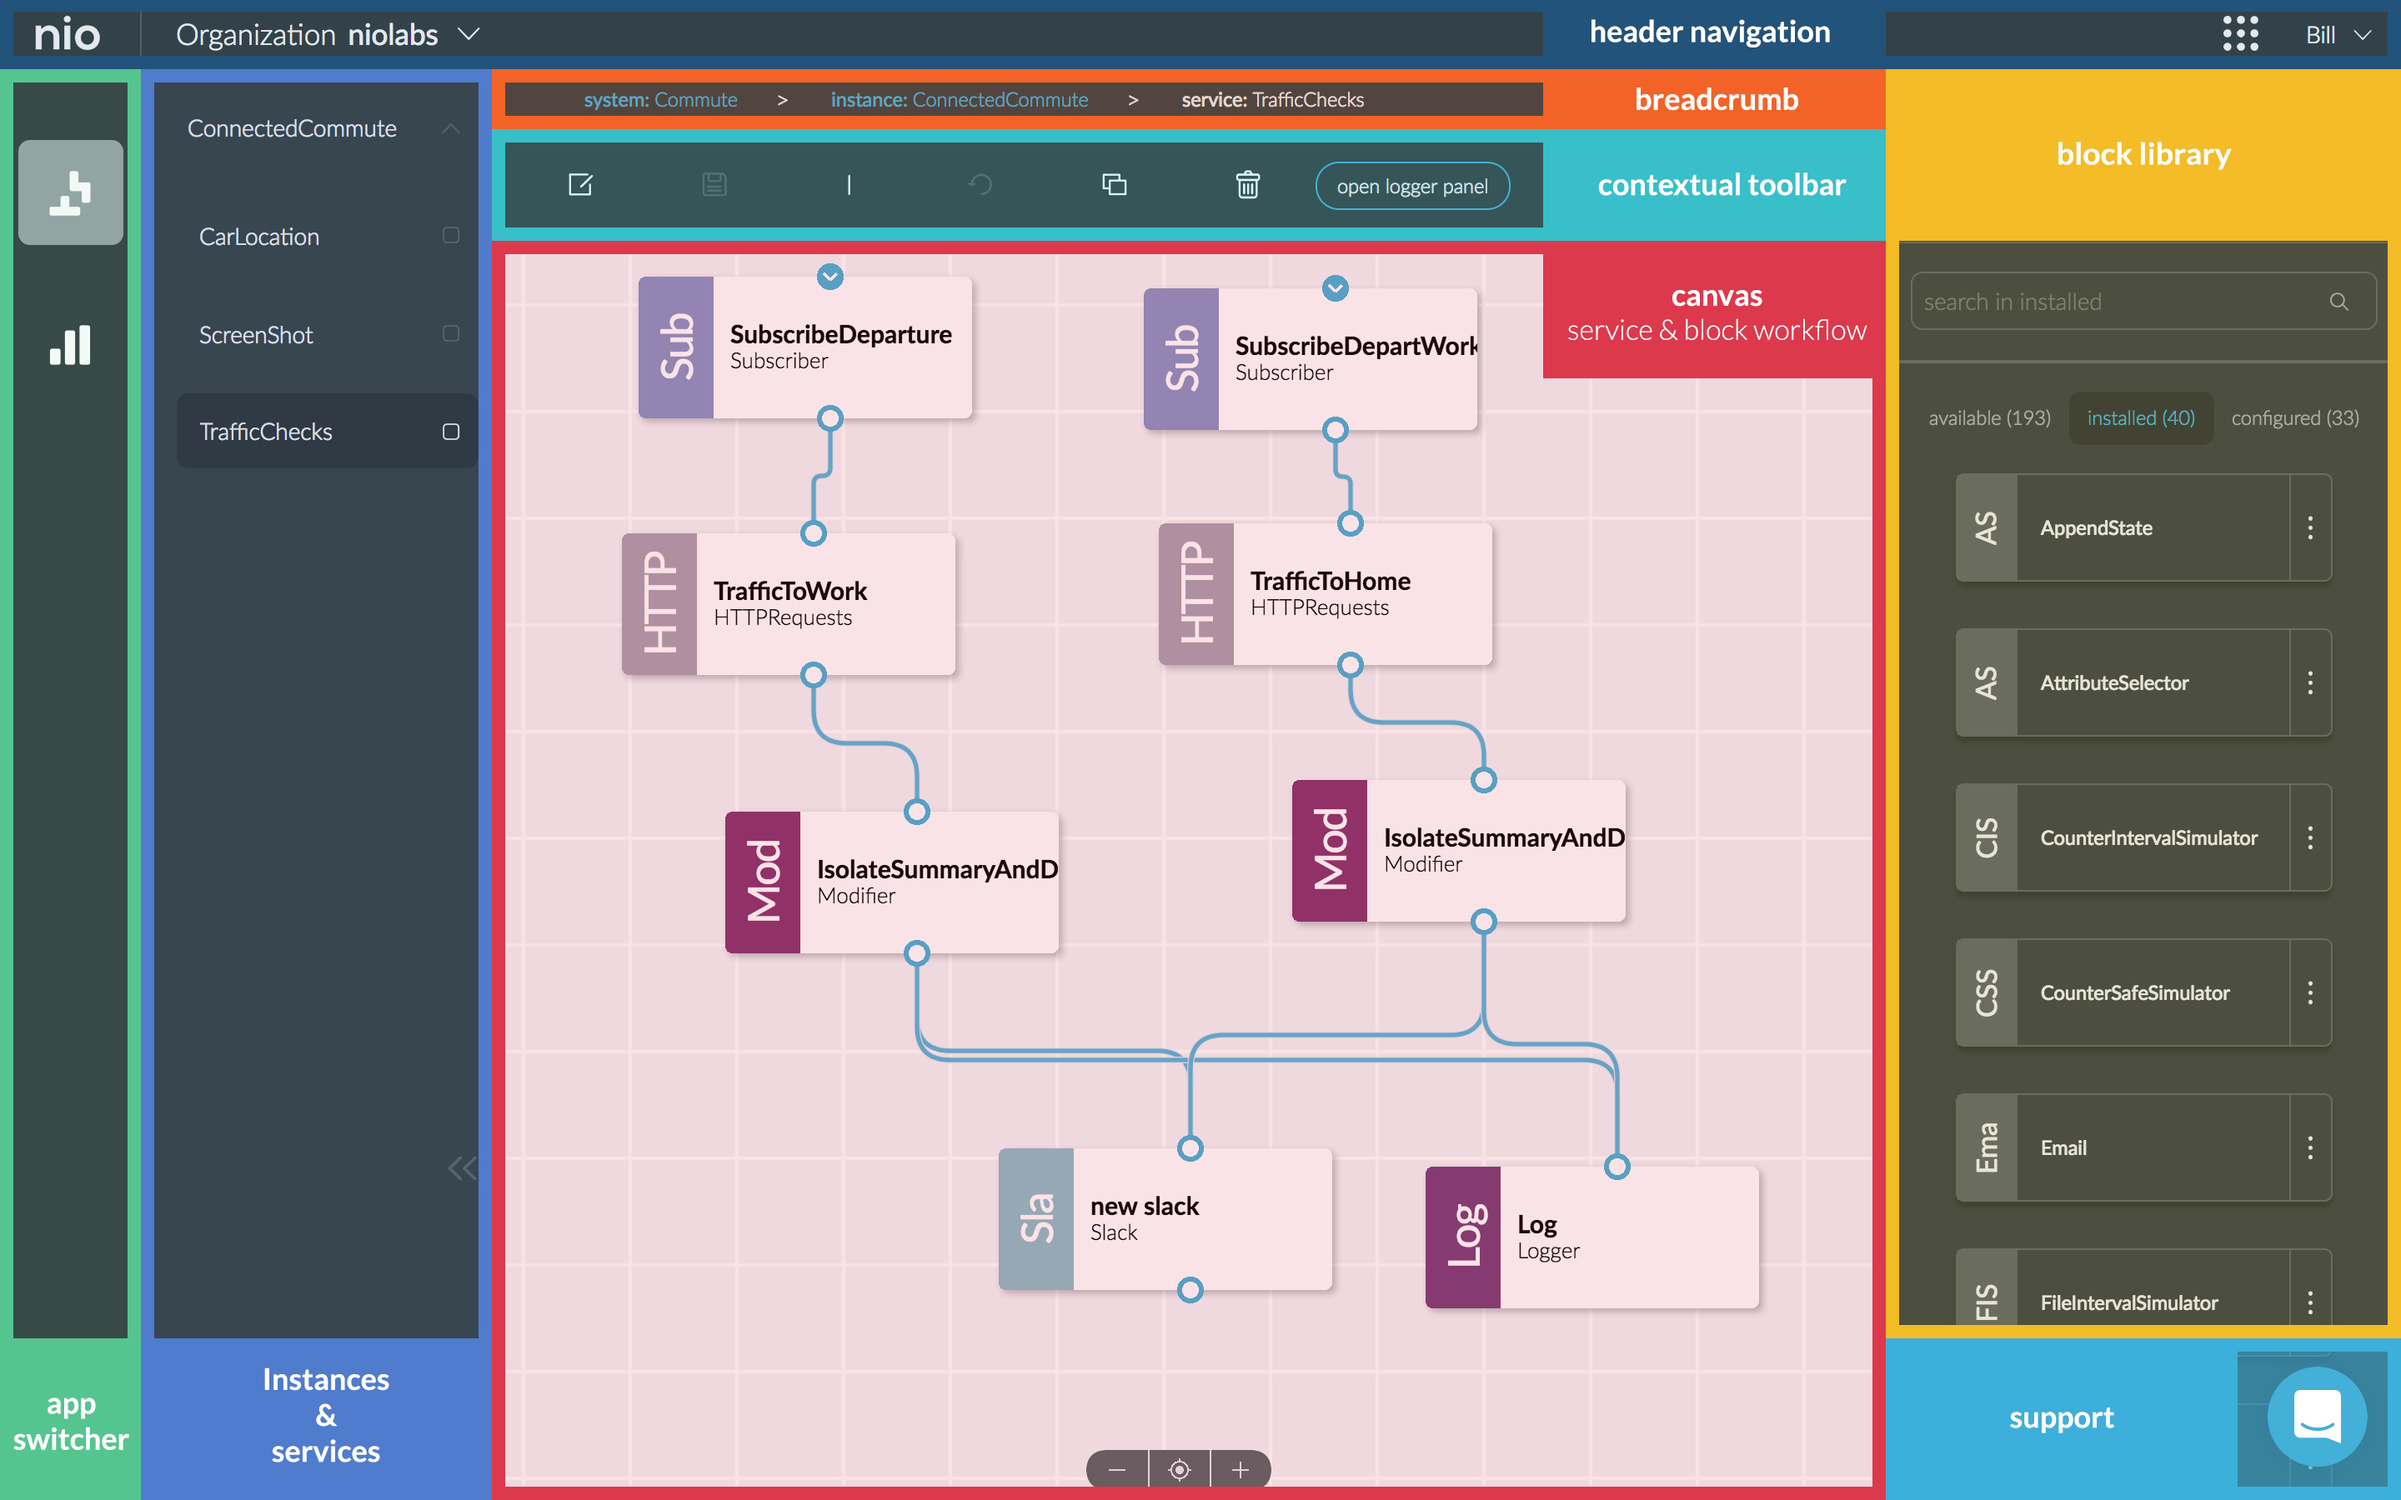
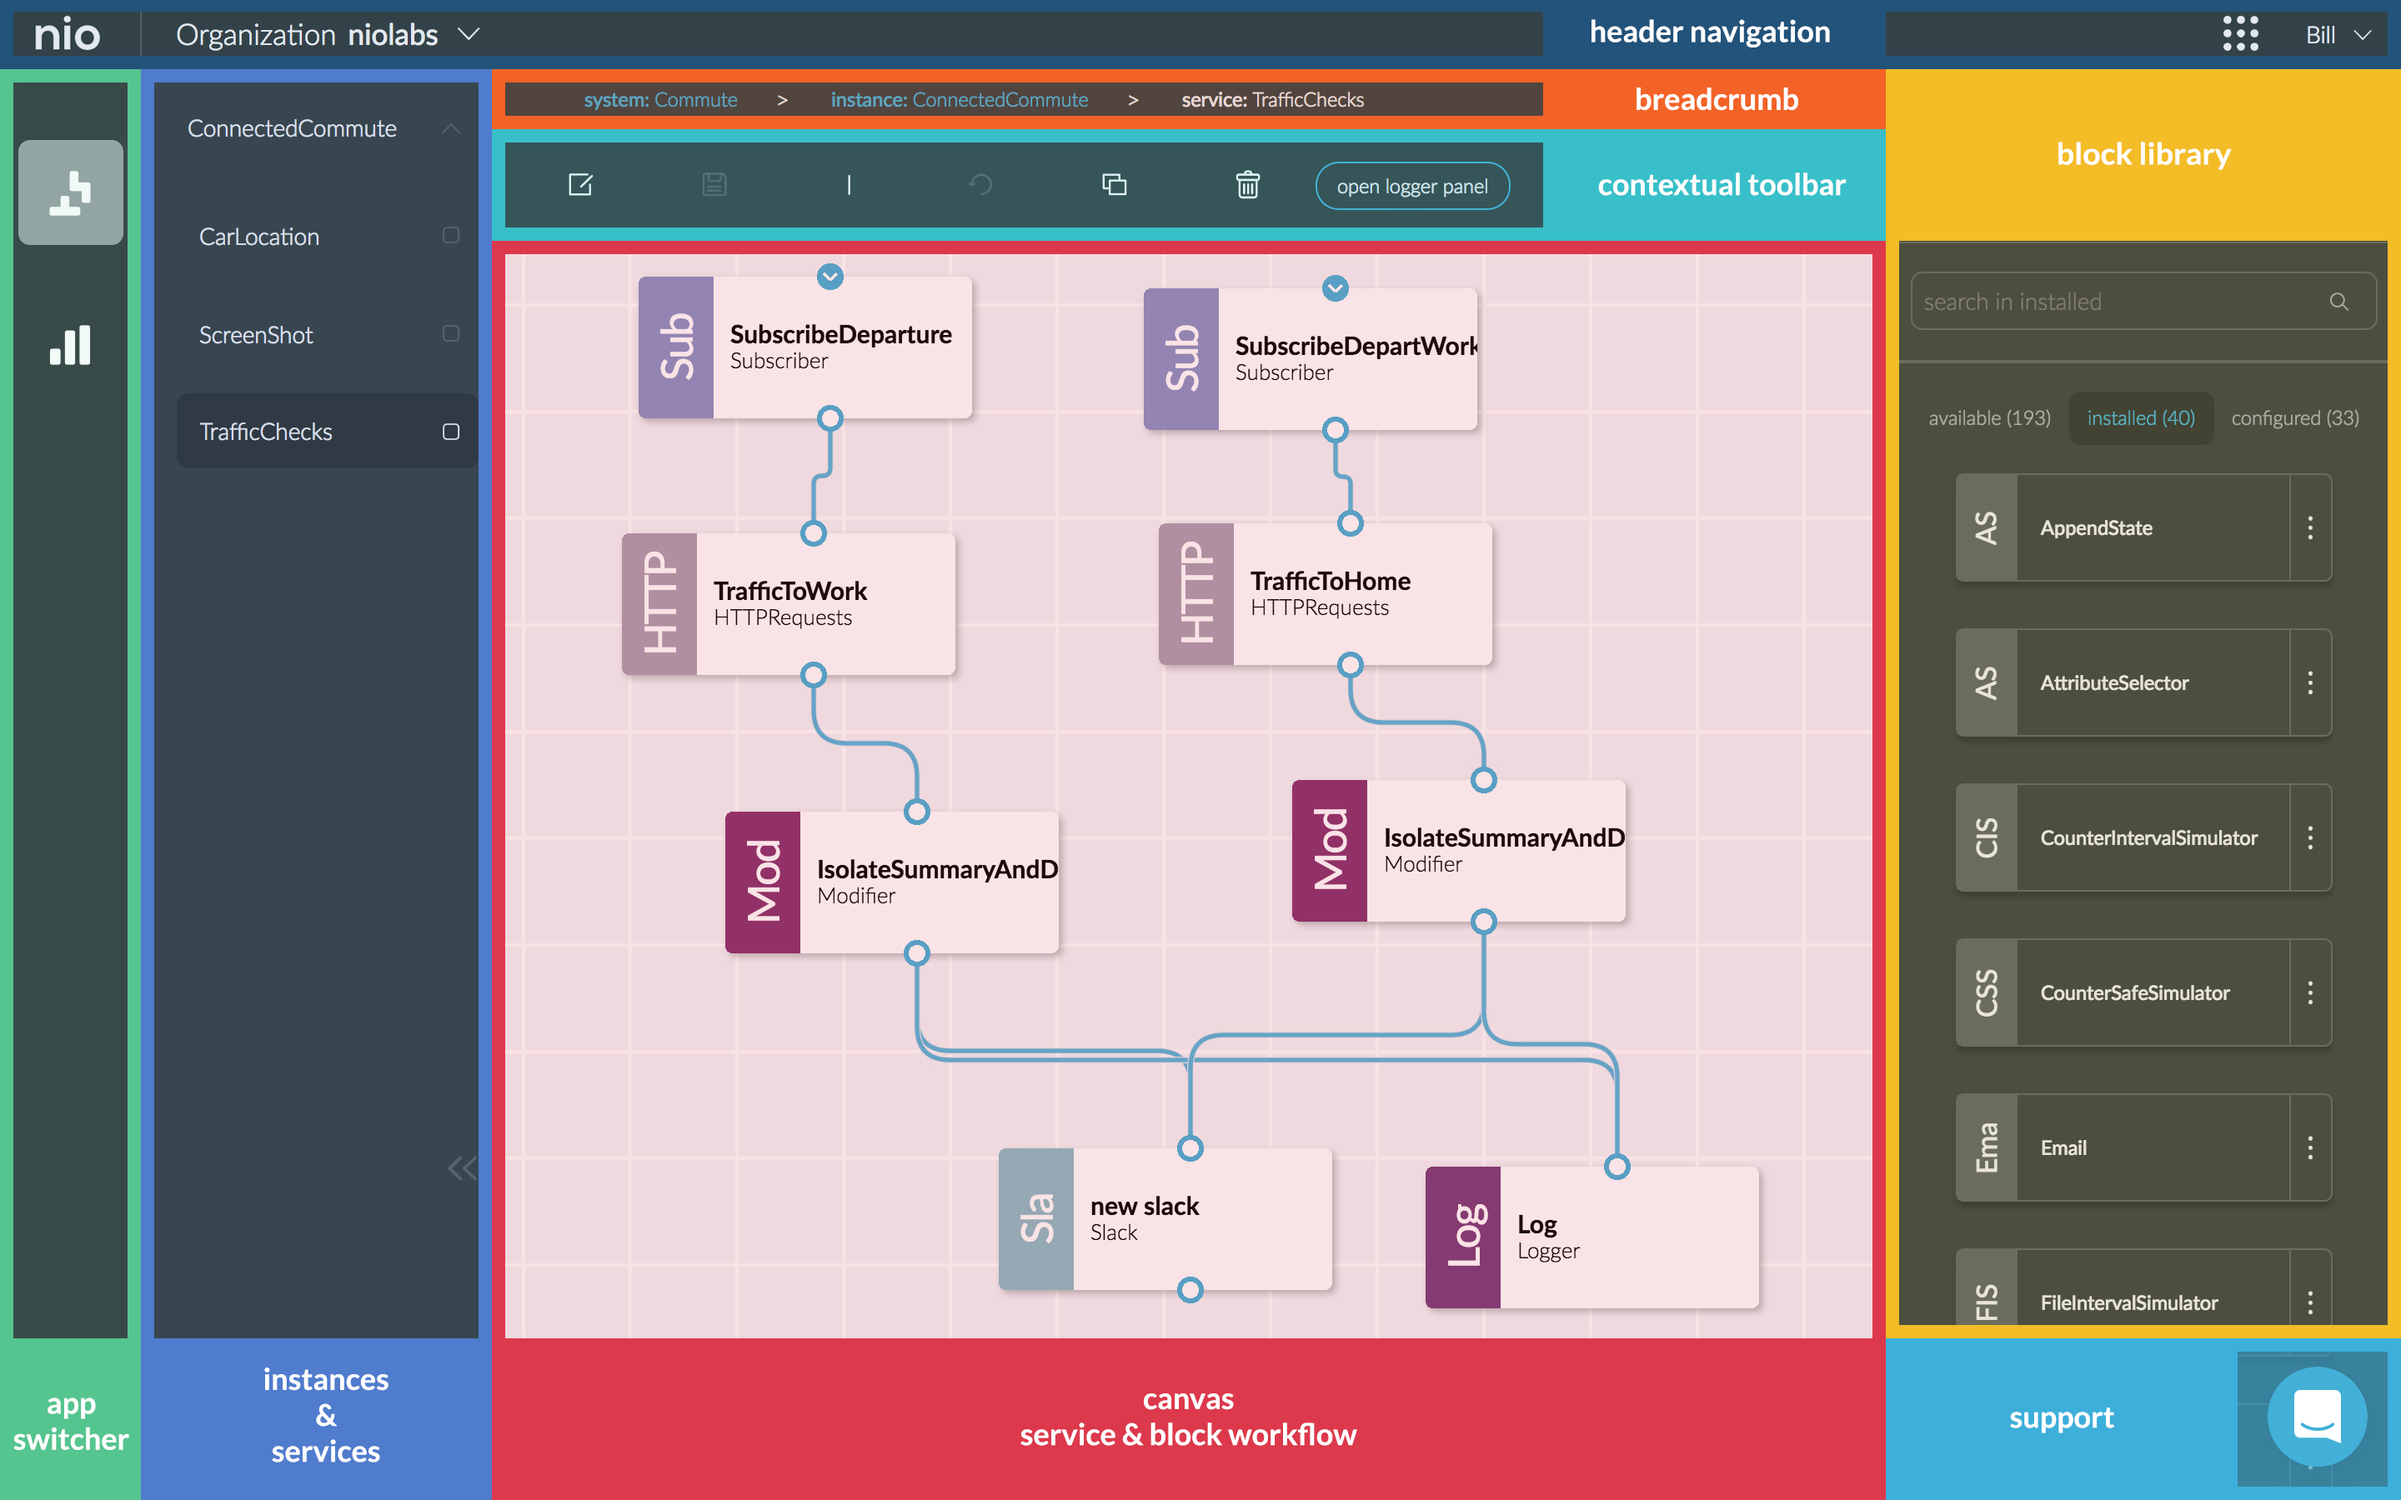
updated image, call it app switcher

Changed region(s): [[0.1875, 0.8711, 0.7812, 0.9956], [0.625, 0.1556, 0.7812, 0.28]]

diff --git a/docs/system-designer/README.md b/docs/system-designer/README.md
@@ -18,8 +18,8 @@ The systems cards are shown on the first screen in the System Designer.
 * To create a system, click the **add new system** card.
 * Learn more about [systems](/systems).
 
-### App selector
-The leftmost column shows the app selector and allows you to switch between apps. To access your systems in the System Designer, click the design icon in the app selector. If your license includes monitoring, you can view the system monitoring tool by clicking the monitor icon.
+### App switcher
+The leftmost column shows the app switcher that enables you to switch between applications. To access your systems in the System Designer, click the design icon in the app selector. If your license includes monitoring, you can view the system monitoring tool by clicking the monitor icon.
 
 ### Instances and services list
 The instances and services list is located on the left side of the System Designer.
